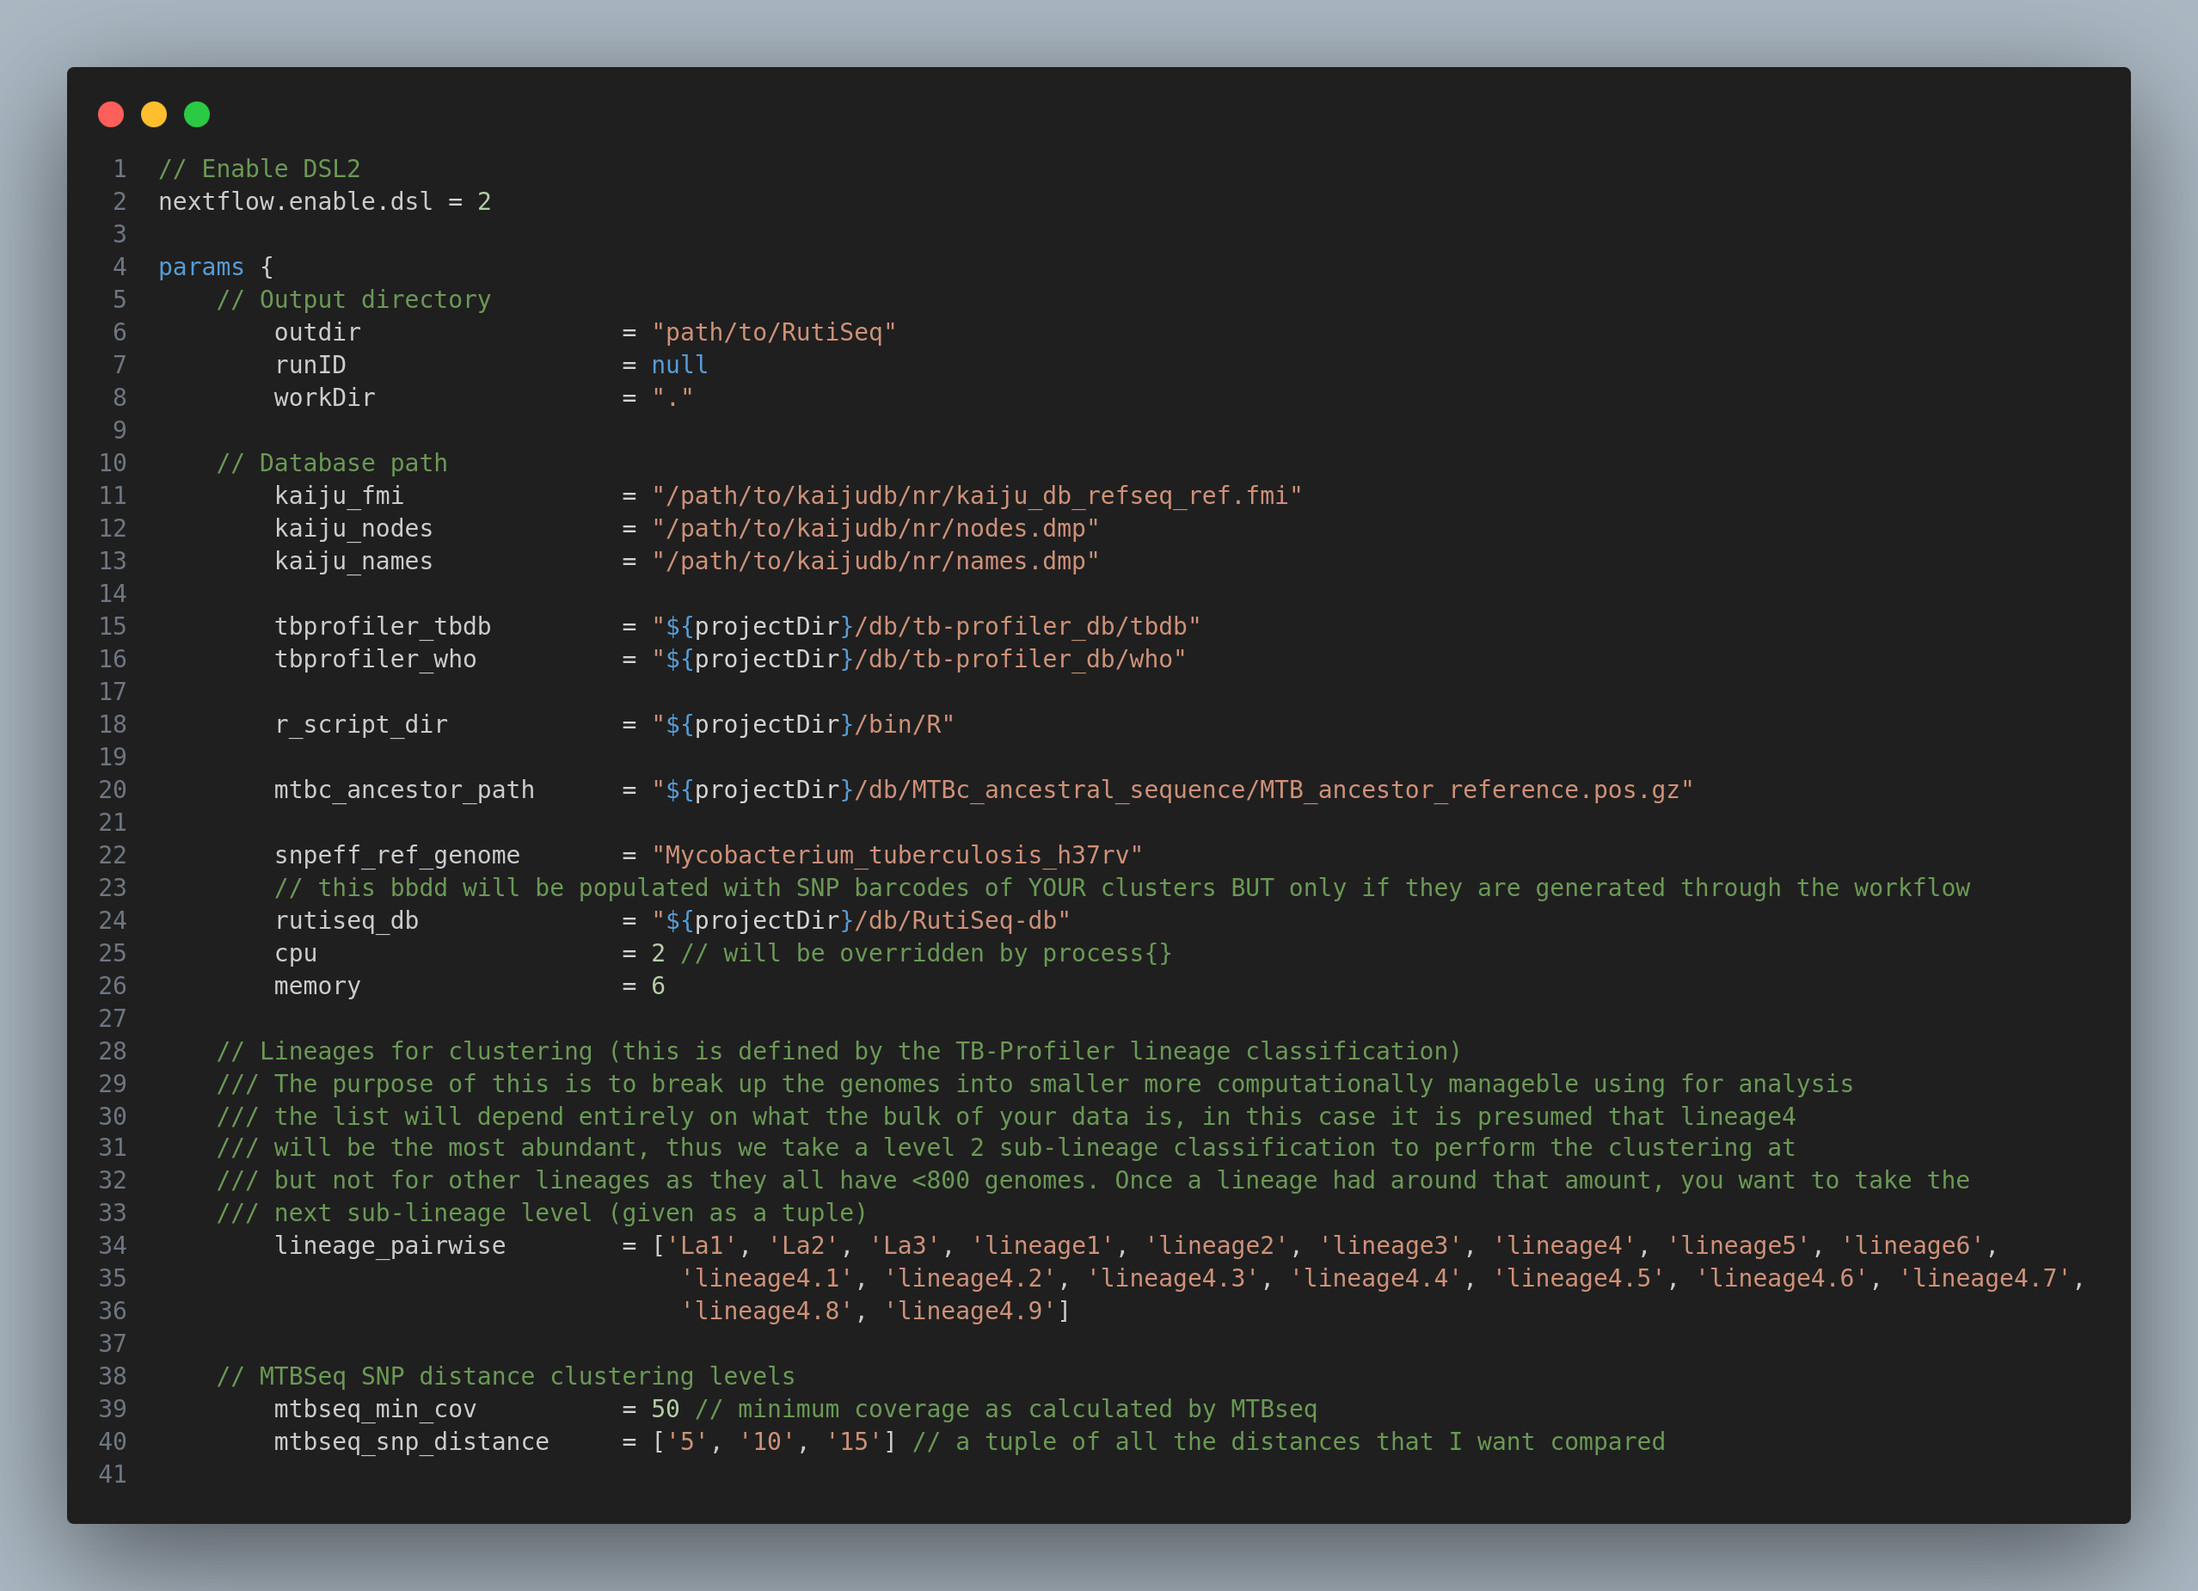
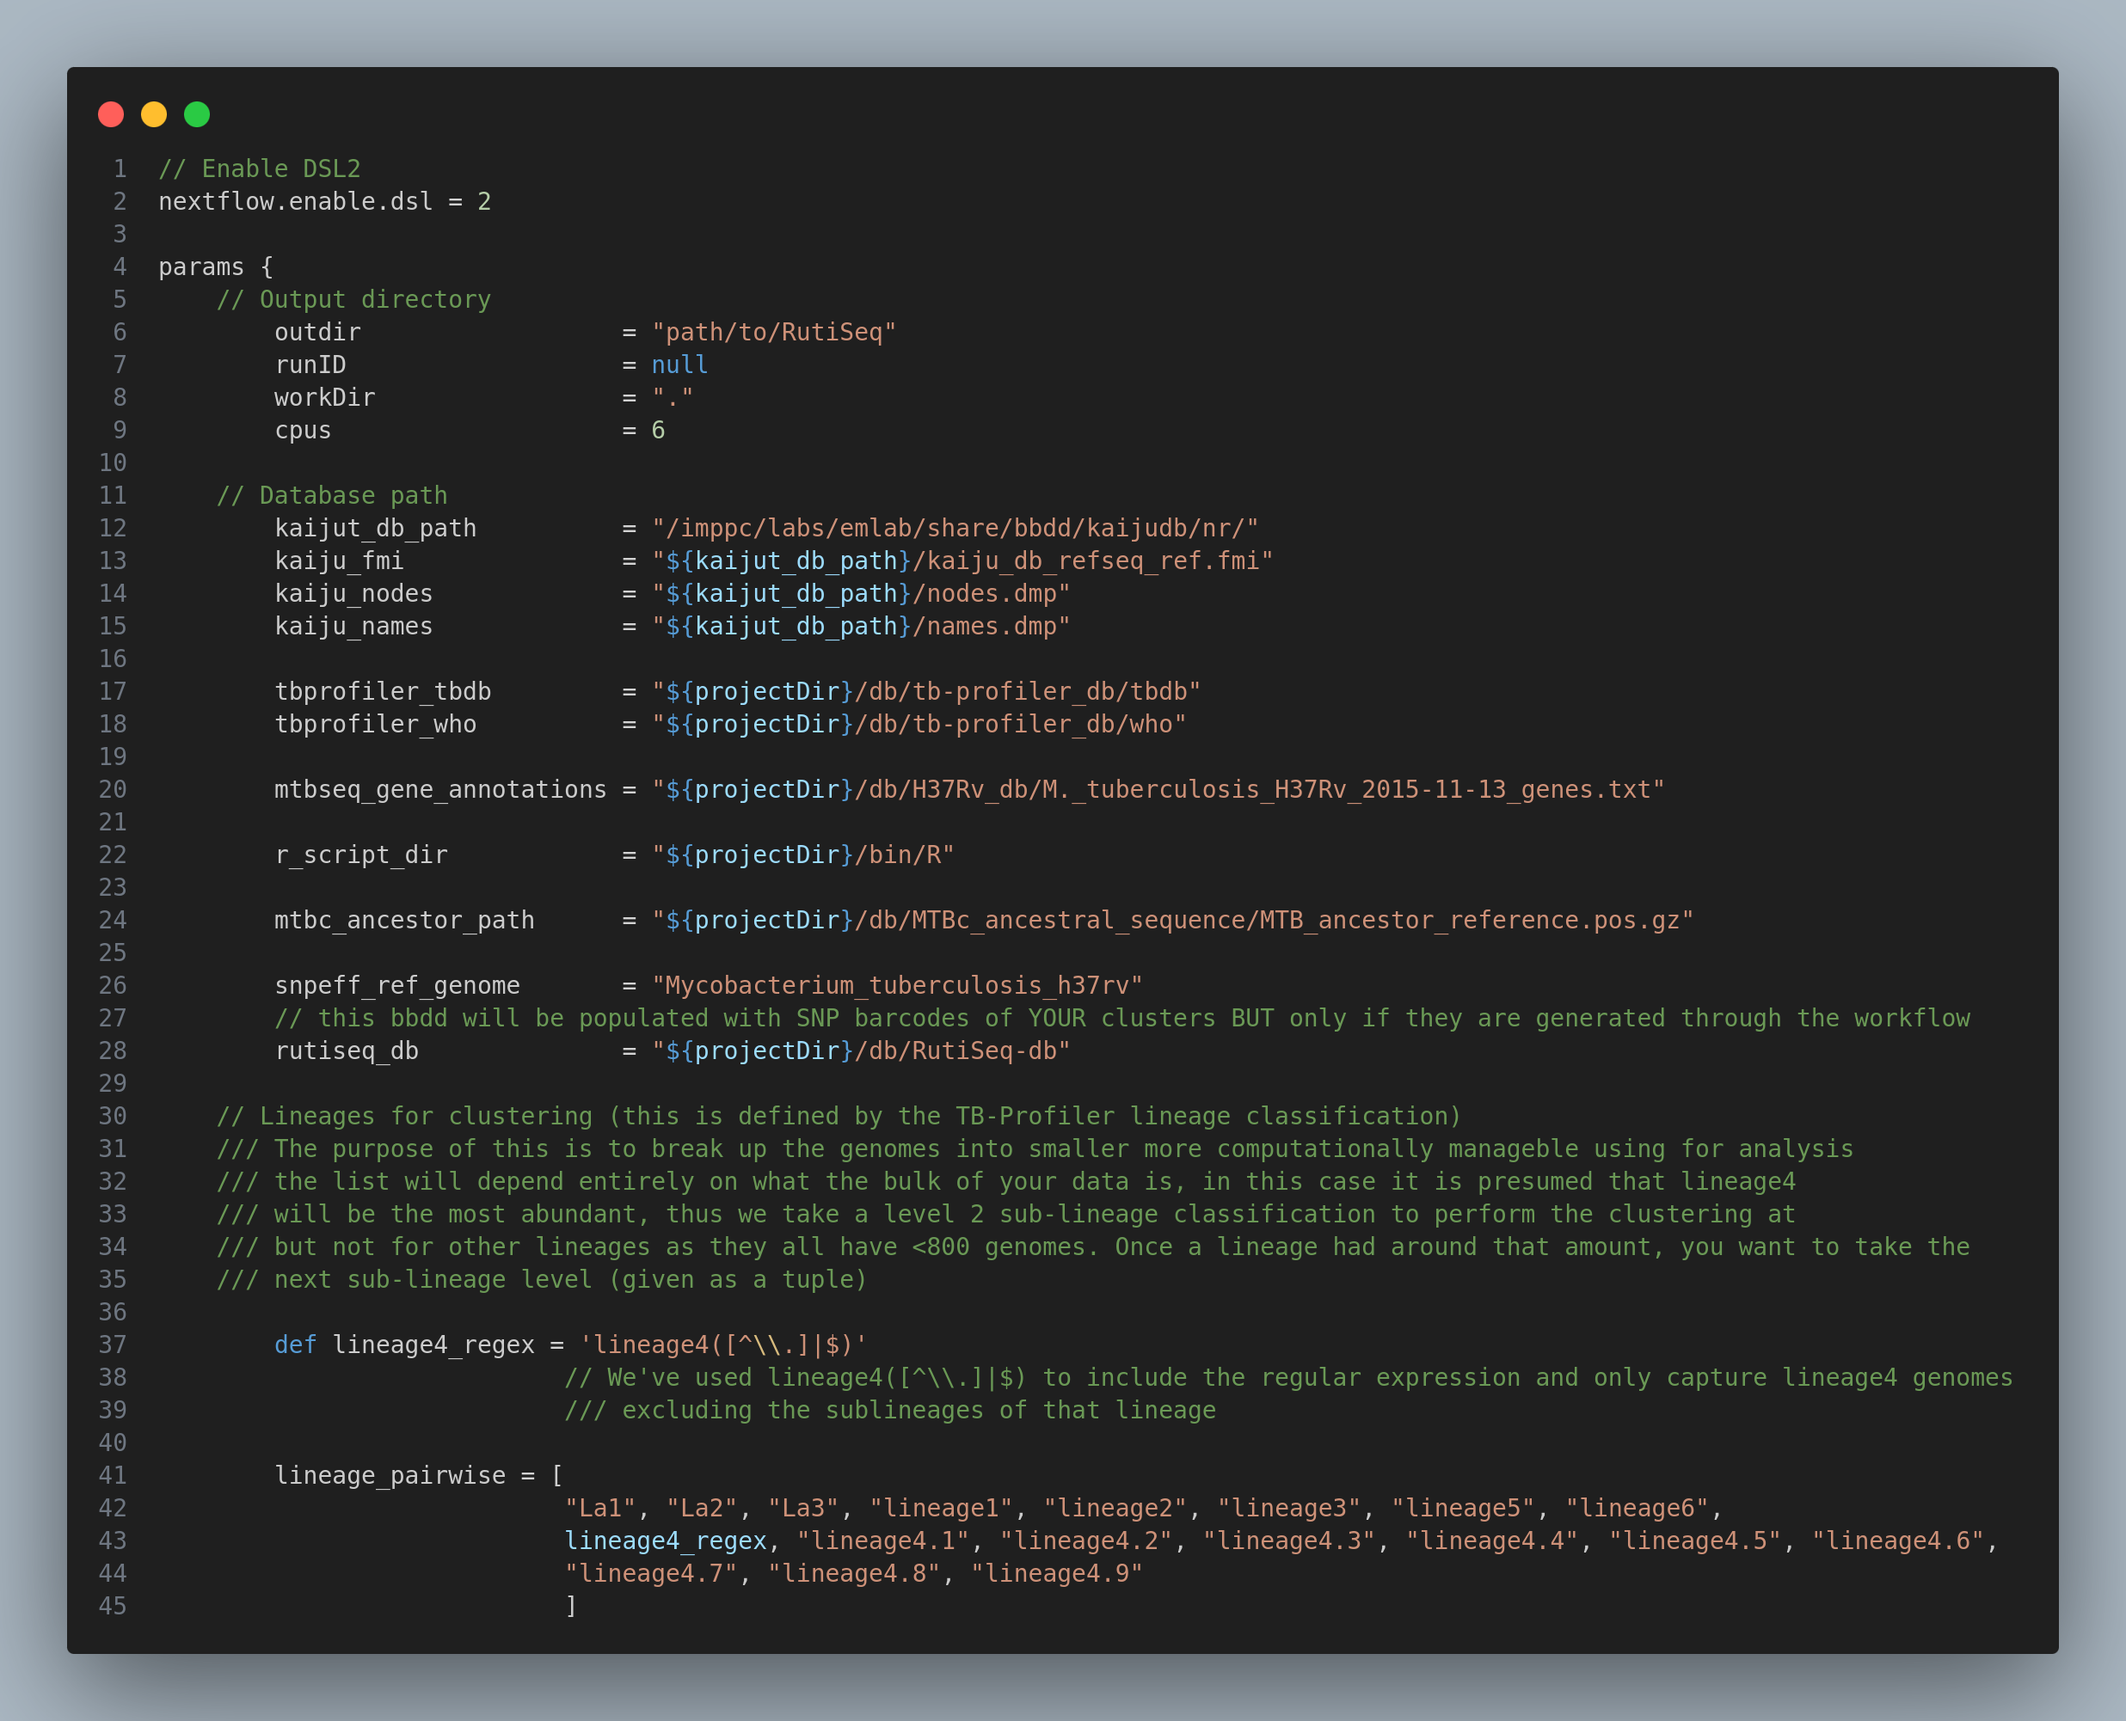
2025-02-19

diff --git a/README.md b/README.md
@@ -74,9 +74,11 @@ The following software needs to be available on your path.
 wget https://kaiju-idx.s3.eu-central-1.amazonaws.com/2023/kaiju_db_refseq_ref_2023-07-05.tgz
 ```
 
-Modify the nextflow.config file to update the paths. You will need to modify <code>kaiju_fmi</code>, <code>kaiju_nodes</code>, and <code>kaiju_names</code> with the path of the kaiju database being utilised. You may also 'hardcode' the output directory with <code>outdir</code>, if youre system has a scratch drive you can set yourt working directory to produce all the intermediate temporary files there using the <code>workDir</code>.  Analsis specific parameters include the minimum depth of coverage each genomes must satisfy to be utilised in the pairwise analysis (<code>mtbseq_min_cov</code>), which lienages you want to survey (<code>lineage_pairwise</code>), and the SNP distances to be used for pairwise comparisons and generate clusters (<code>mtbseq_snp_distance</code>).
+Modify the nextflow.config file to update the paths. You will need to modify <code>kaiju_fmi</code>, <code>kaiju_nodes</code>, and <code>kaiju_names</code> with the path of the kaiju database being utilised. You may also 'hardcode' the output directory with <code>outdir</code>, if your system has a scratch storage you can set the working directory to produce all the intermediate temporary files there using the <code>workDir</code>.  Analysis specific parameters include the minimum depth of coverage each genomes must satisfy to be utilised in the pairwise analysis (<code>mtbseq_min_cov</code>), which lienages you want to survey (<code>lineage_pairwise</code>), and the SNP distances to be used for pairwise comparisons and generate clusters (<code>mtbseq_snp_distance</code>). The only exception is for lineages where sublineages should not be considered, such as those classified solely as lineage 4. This ensures that only genomes specifically labeled as, for example, lineage 4, without any sublineages included. This prevents all lineage 4 classifications from forming clusters, which would be highly time-consuming for the most abundant lineage. In this case the lineage has been defined as <code>def lineage4_regex = 'lineage4([^\\.]|$)'</code>.
 
 ![image](png/figure1.png)
+
+Parameters for specific tools, such as MTBseq can also be configured in the config file. 
 
 ### Software package managers
 
@@ -101,7 +103,7 @@ sampleCN-1-AAA-R1,CN-1-AAA_L1,/path/to/R1.fastq.gz,/path/to/R2.fastq.gz
   
 **<u>name</u>** : Name of the sample. Retaining the original name of your sample in the file is for your own records and will not be used in the pipeline untill the very end for the results tables.
 
-**<u>alias</u>** : The alias MUST have the following structure - **[SampleID]_[LibraryID]**. The sampleID can be have information separated by hyphens ( - ), BUT the undescore ( \_ ) must be reserve by distinguishing between the SampleID and the LibraryID. This is to satisfy a data naming convention required by MTBseq, which requires reads are name: **[SampleID]\_[LibID]\_[\*]_[Direction].fastq.gz**. If the sampleID's happen to follow this structure, you can duplicate same value in **name** and **alias**. If a alias in your sample sheet is duplicated, or that alias already exists in the database, then that sample will no be analyzed, and an alert will be produced informing you of this. Ensure that each alias is unique within the entire database.
+**<u>alias</u>** : The alias MUST be ***unique*** and have the following structure - **[SampleID]_[LibraryID]**. The sampleID can be have information separated by hyphens ( - ), BUT the undescore ( \_ ) must be reserve by distinguishing between the SampleID and the LibraryID. This is to satisfy a data naming convention required by MTBseq, which requires reads are name: **[SampleID]\_[LibID]\_[\*]_[Direction].fastq.gz**. If the sampleID's happen to follow this structure, you can duplicate same value in **name** and **alias**. If a alias in your sample sheet is duplicated, or that alias already exists in the database, then that sample will no be analyzed, and an alert will be produced informing you of this. Ensure that each alias is unique within the entire database.
 
 **<u>forward_path/reverse_path</u>** : full path of reads available to the system for accessing the reads. Reads must be gzipped and with the full suffix of <code>fastq.gz</code>, not <code>fq.gz</code>.  
 
